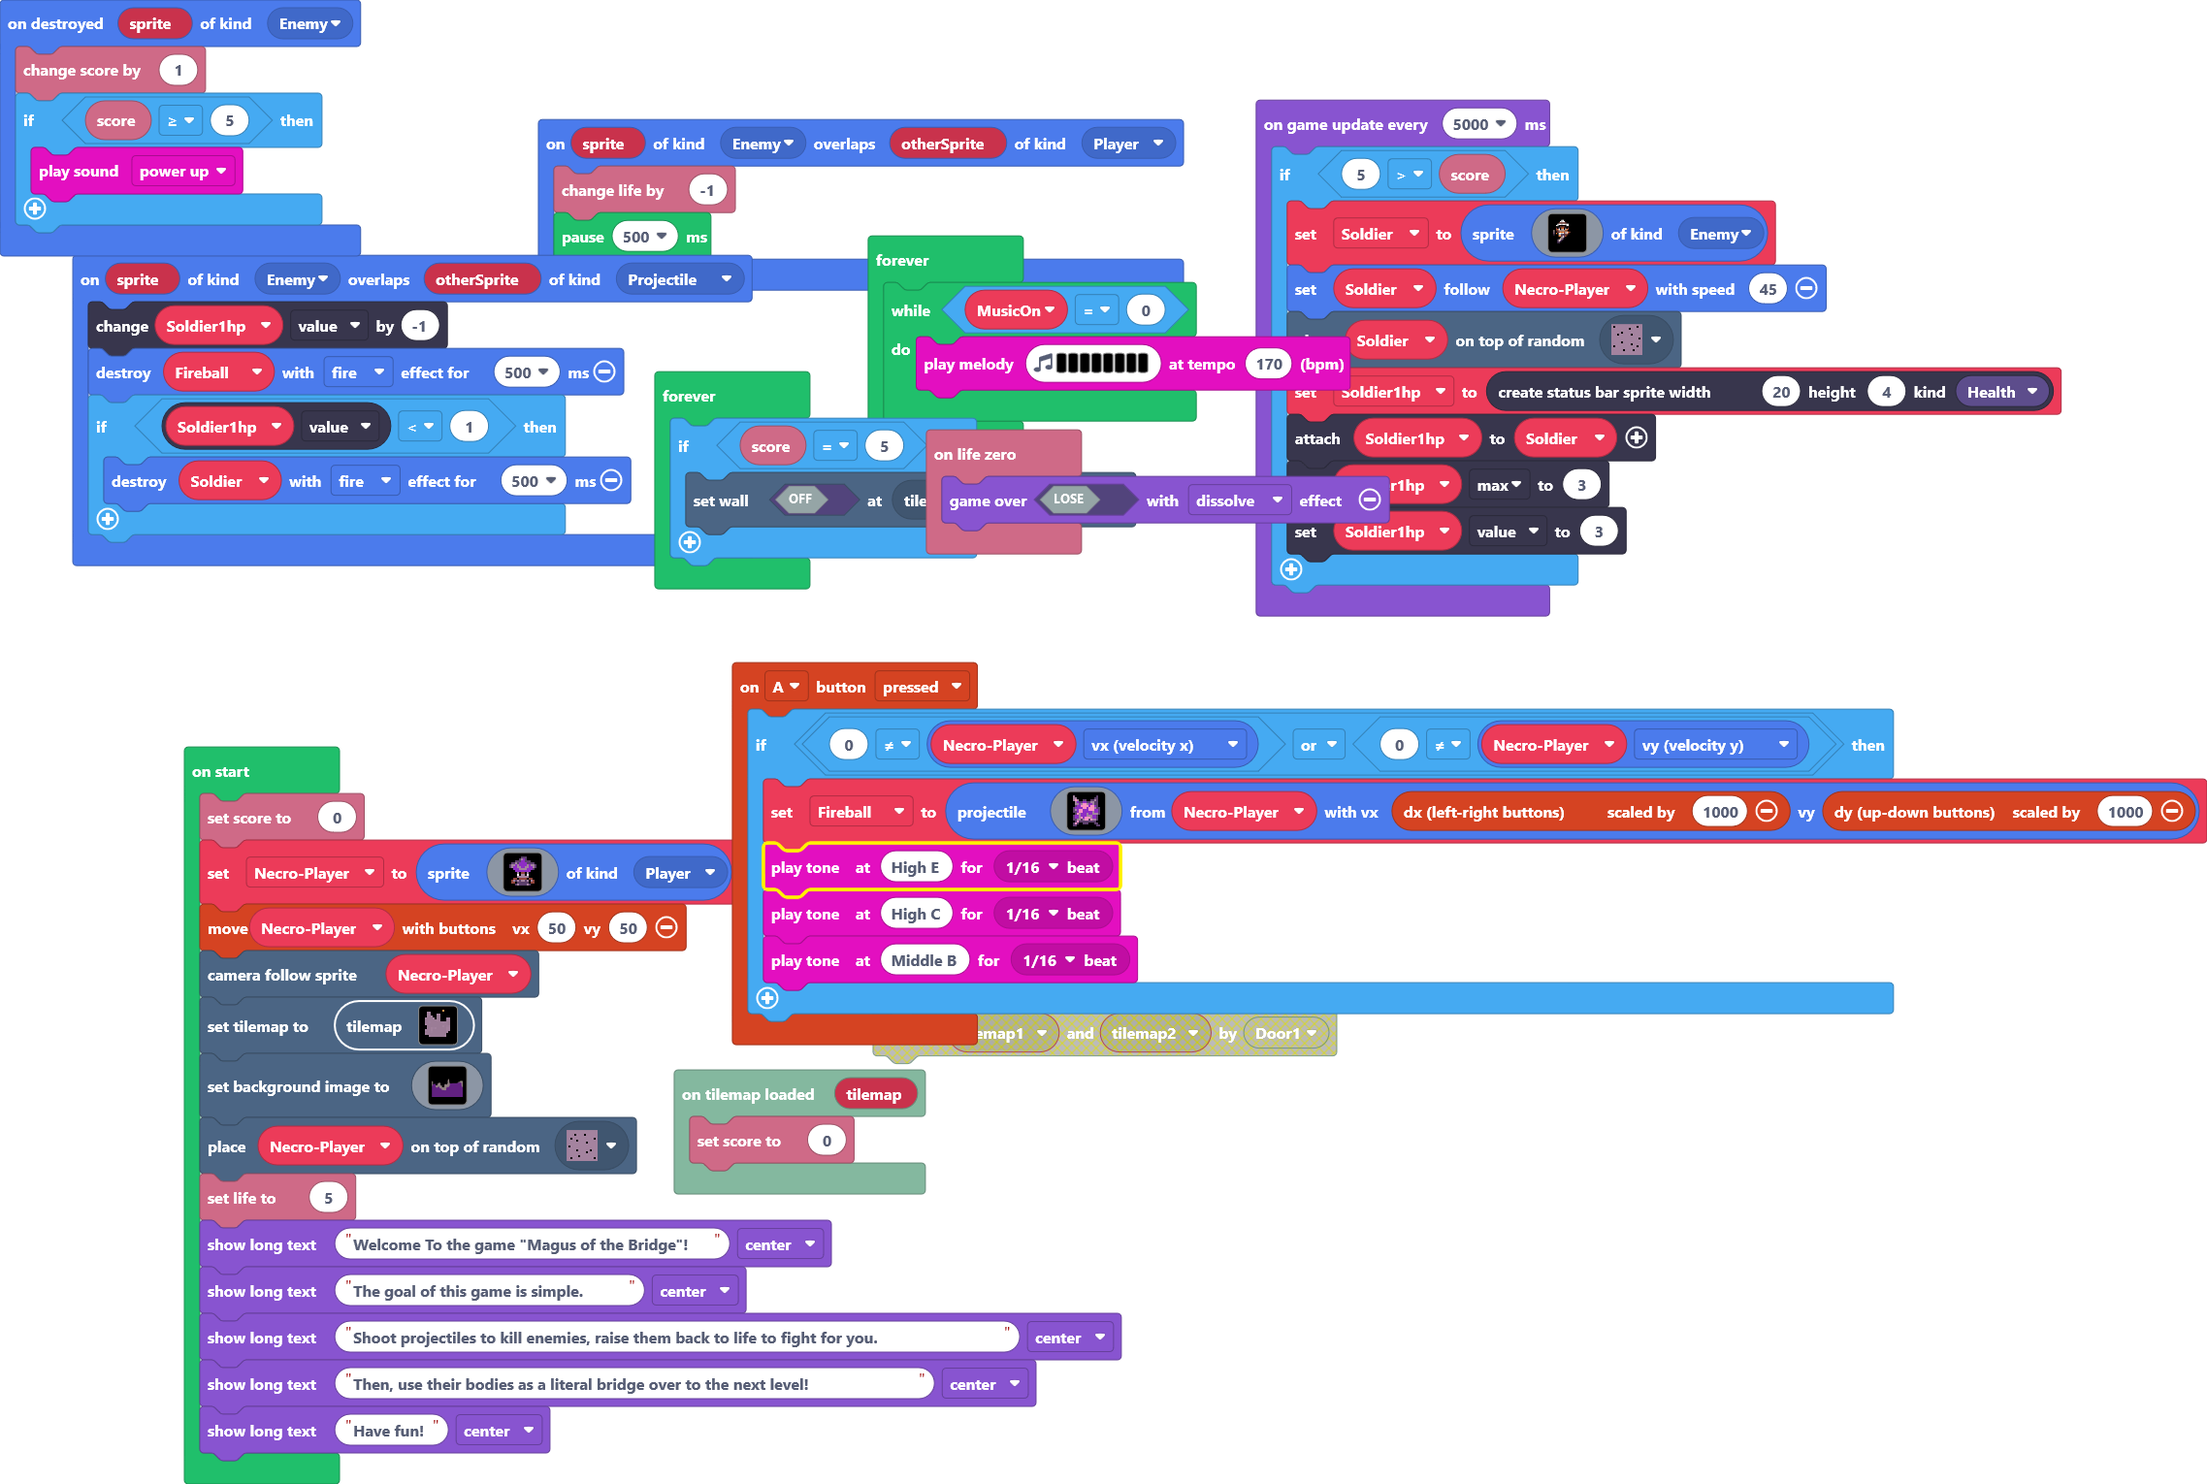
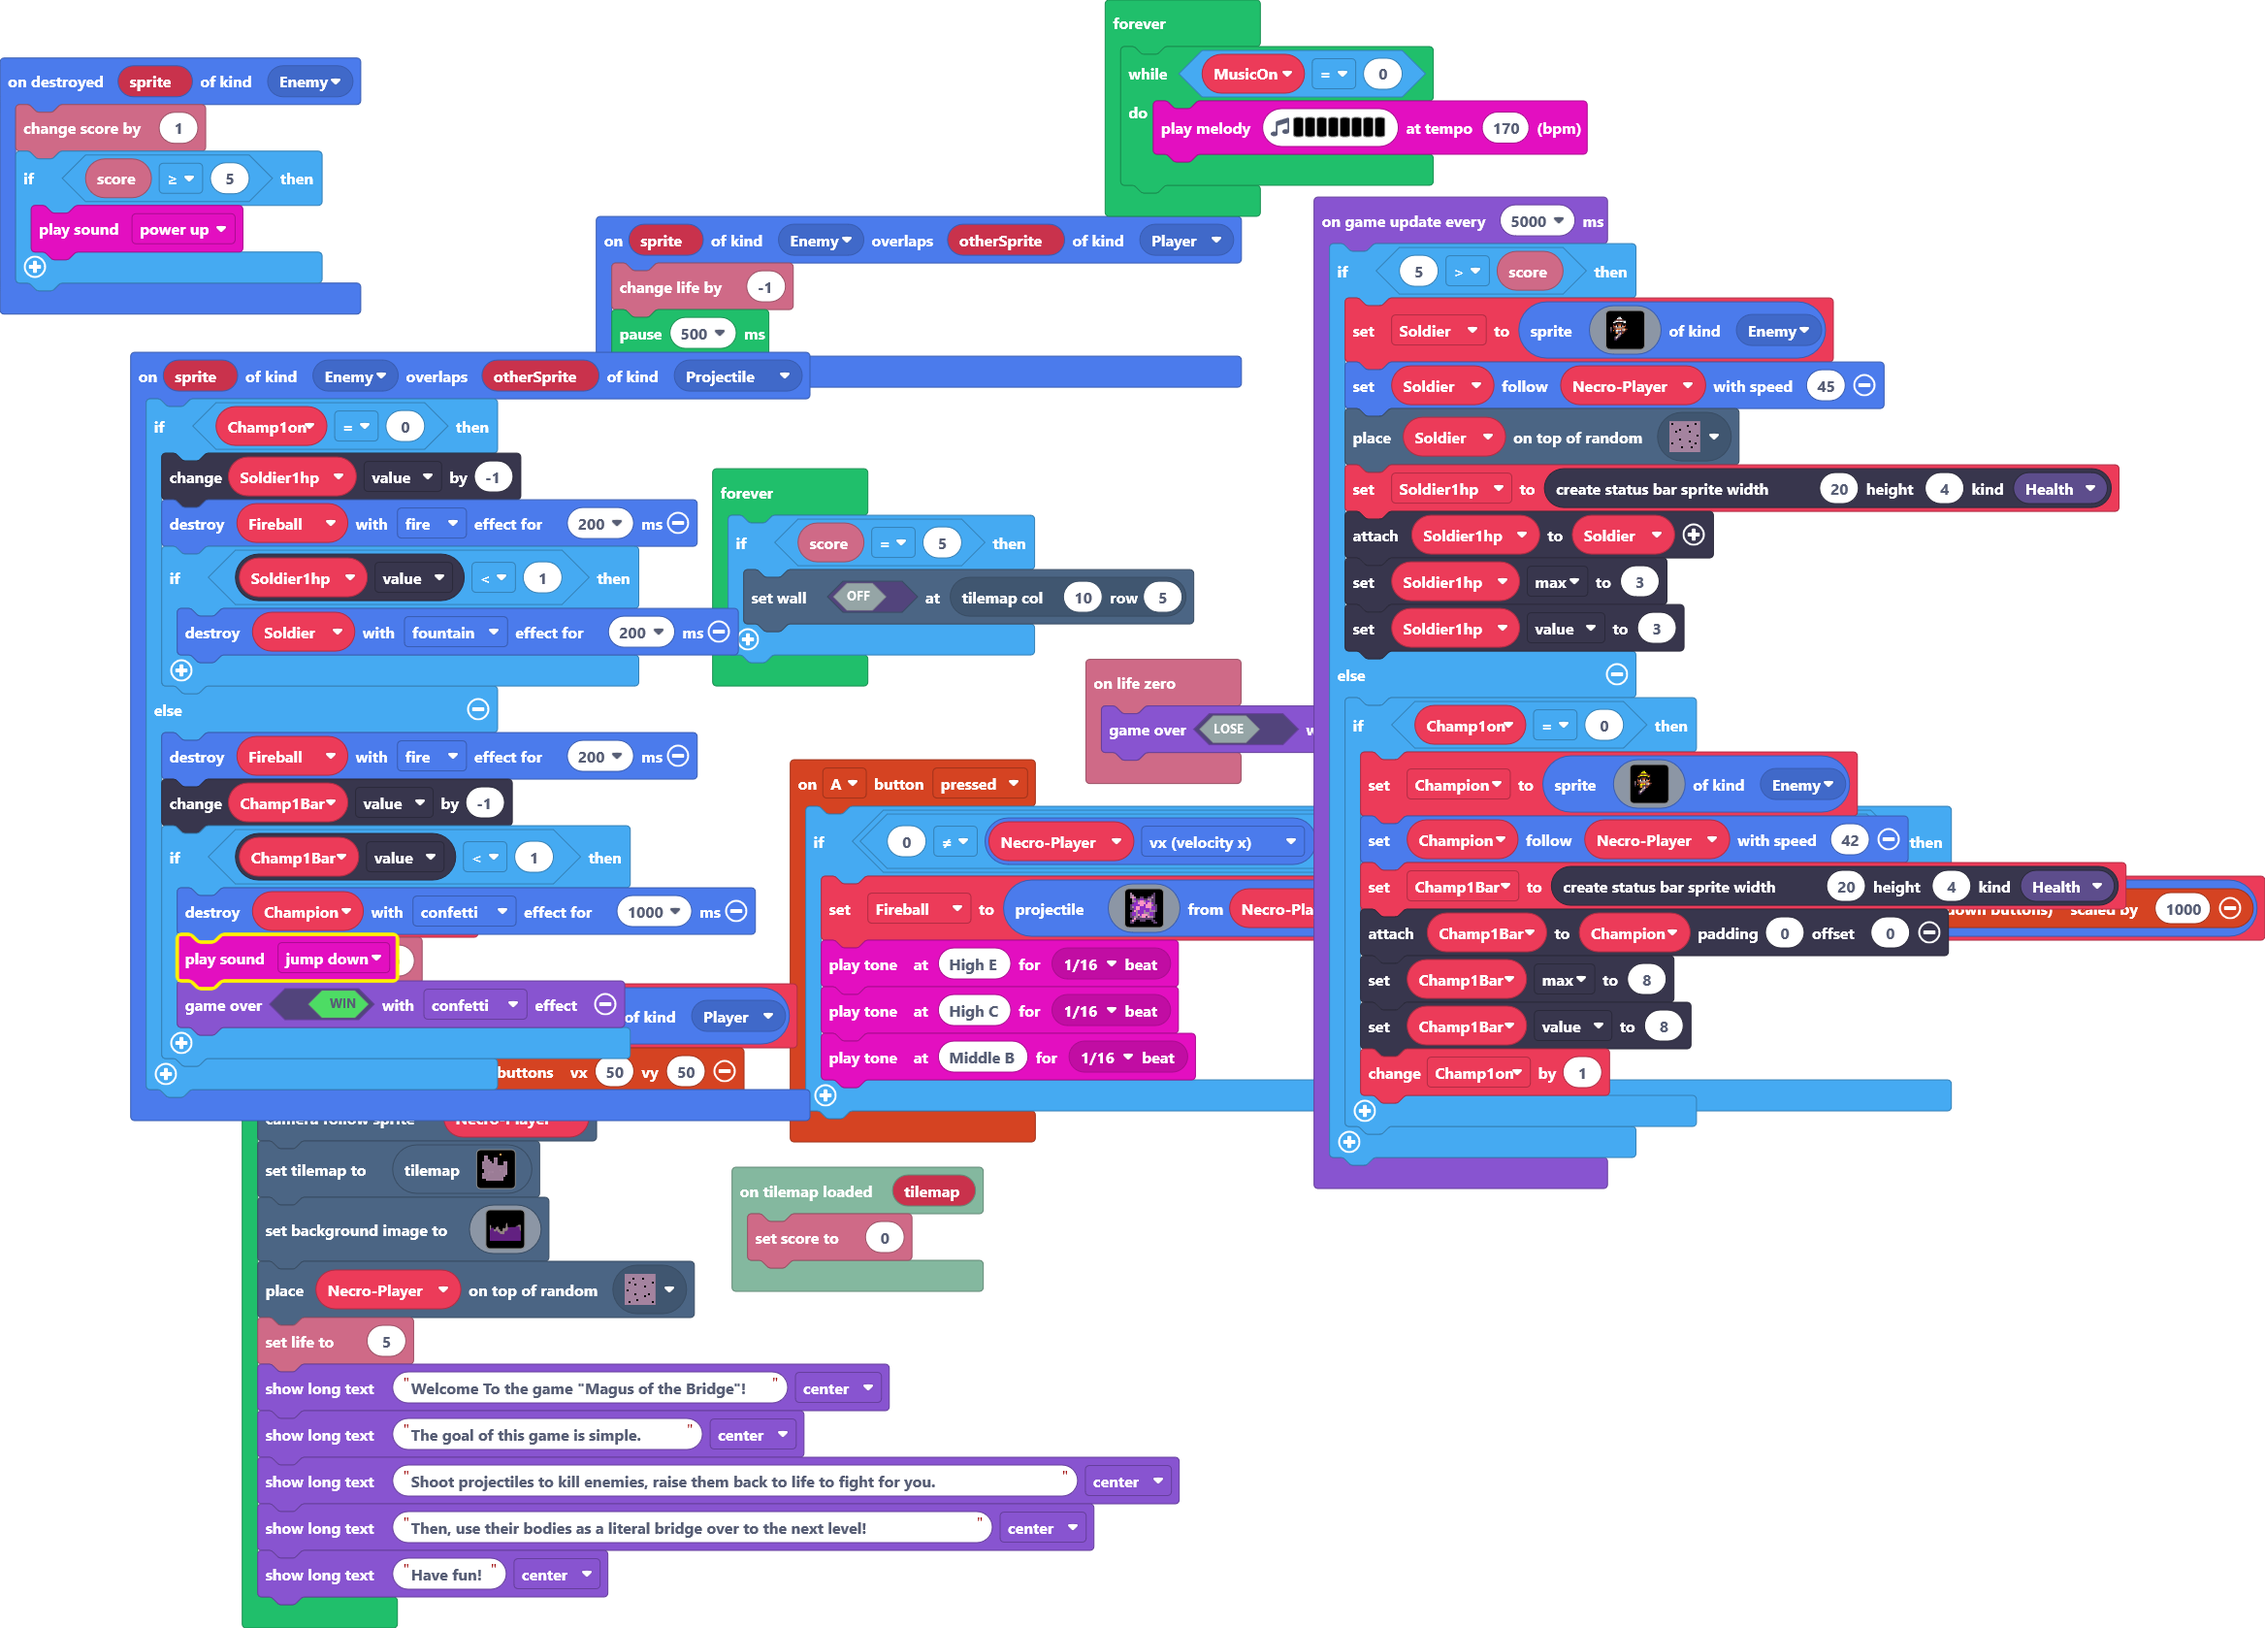
Added champion.you can actually win now.

diff --git a/main.ts b/main.ts
@@ -10,10 +10,20 @@ tiles.onMapLoaded(function (tilemap2) {
     info.setScore(0)
 })
 sprites.onOverlap(SpriteKind.Enemy, SpriteKind.Projectile, function (sprite, otherSprite) {
-    Soldier1hp.value += -1
-    Fireball.destroy(effects.fire, 500)
-    if (Soldier1hp.value < 1) {
-        Soldier.destroy(effects.fire, 500)
+    if (Champ1on == 0) {
+        Soldier1hp.value += -1
+        Fireball.destroy(effects.fire, 200)
+        if (Soldier1hp.value < 1) {
+            Soldier.destroy(effects.fountain, 200)
+        }
+    } else {
+        Fireball.destroy(effects.fire, 200)
+        Champ1Bar.value += -1
+        if (Champ1Bar.value < 1) {
+            Champion.destroy(effects.confetti, 1000)
+            music.jumpDown.play()
+            game.over(true, effects.confetti)
+        }
     }
 })
 sprites.onOverlap(SpriteKind.Enemy, SpriteKind.Player, function (sprite, otherSprite) {
@@ -29,10 +39,14 @@ sprites.onDestroyed(SpriteKind.Enemy, function (sprite) {
         music.powerUp.play()
     }
 })
+let Champion: Sprite = null
+let Champ1Bar: StatusBarSprite = null
 let Soldier: Sprite = null
 let Soldier1hp: StatusBarSprite = null
+let Champ1on = 0
 let Fireball: Sprite = null
 let NecroPlayer: Sprite = null
+let MusicOn = 0
 info.setScore(0)
 NecroPlayer = sprites.create(assets.image`Necro-Player`, SpriteKind.Player)
 controller.moveSprite(NecroPlayer, 50, 50)
@@ -176,10 +190,19 @@ game.onUpdateInterval(5000, function () {
         Soldier1hp.attachToSprite(Soldier)
         Soldier1hp.max = 3
         Soldier1hp.value = 3
+    } else {
+        if (Champ1on == 0) {
+            Champion = sprites.create(assets.image`Champeon_soldier`, SpriteKind.Enemy)
+            Champion.follow(NecroPlayer, 42)
+            Champ1Bar = statusbars.create(20, 4, StatusBarKind.Health)
+            Champ1Bar.attachToSprite(Champion, 0, 0)
+            Champ1Bar.max = 8
+            Champ1Bar.value = 8
+            Champ1on += 1
+        }
     }
 })
 forever(function () {
-    let MusicOn = 0
     while (MusicOn == 0) {
         music.playMelody("E B C5 A B G A F ", 170)
     }

diff --git a/images.g.ts b/images.g.ts
@@ -68,6 +68,33 @@ fcf.f11cccee............
 ........................
 ........................
 `;
+            case "image4":
+            case "Champeon_soldier":return img`
+........................
+......ffff..............
+.....ff55ff.............
+....ff5555ff............
+...ffeeeeeeff...........
+..ffe555555eef..........
+..fe5ffffff5ef..........
+..ffffeeeeffff..........
+..fefbf44fbfef..........
+..fe41fddf14ef..........
+fdfeeddddd4eff..........
+fbffee444edd4e..........
+fbf4f5555edde...........
+fcf.f55cccee............
+.ff.f44cdc4f............
+....fffddcff............
+.....fddcff.............
+....cddc................
+....cdc.................
+....cc..................
+........................
+........................
+........................
+........................
+`;
         }
         return null;
     })
